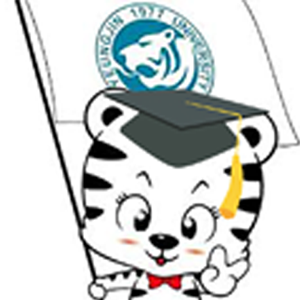
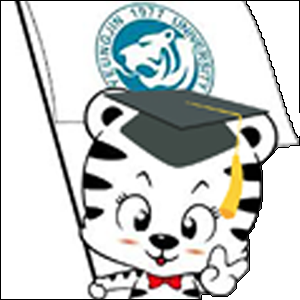
iq테스트 결과창 수정

diff --git a/iq_result/iq_result.css b/iq_result/iq_result.css
@@ -1,4 +1,10 @@
 /* 결과 화면 스타일 */
+body {
+    position: relative;
+    font-family: Arial, sans-serif;
+    background: rgba(0, 0, 0, 0.7); 
+}
+
 #result {
     text-align: center;
     font-size: 24px;
@@ -12,14 +18,35 @@
     right: 0;
     top: 0;
 }
-
+#result p{
+    width: 700px;
+    height: 140px;
+    border: 4px solid #111;
+    border-radius: 5px;
+    background-color: #fff;
+    position: absolute;
+    color: rgb(27, 64, 177);
+    font-weight: bold;
+    font-size: 40px;
+    top: 450px;
+    left: 160px;
+}
+#result span{
+    text-align: center;
+    position: absolute;
+    color: #111;
+    font-weight: bold;
+    font-size: 24px;
+    top: 545px;
+    left: 330px;
+}
 #high_iq_result_img{
     position: absolute;
     align-items: center;
     margin-top: 0;
     margin-bottom: 0;
-    top: 5%;
-    left: 40%;
+    top: 0px;
+    left: 660px;
 }
 
 #medium_iq_result_img{
@@ -27,8 +54,8 @@
     align-items: center;
     margin-top: 0;
     margin-bottom: 0;
-    top: 10%;
-    left: 42%;
+    top: 150px;
+    left: 710px;
 }
 
 #low_iq_result_img{
@@ -36,26 +63,23 @@
     align-items: center;
     margin-top: 0;
     margin-bottom: 0;
-    top: 10%;
-    left: 42%;
+    top: 50px;
+    left: 38%;
 }
 
-p{
-    position: absolute;
-    top: 950%;
-    left: 42%;
-}
 
 .modal_btn {
     /*누르면 모달 나오는 버튼*/
     position: absolute;
-    top: 1200%;
-    left: 46%;
+    top: 1460%;
+    left: 43%;
     display: block;
     margin: auto;
     padding: 10px 20px;
     background-color: royalblue;
-    border: none;
+    border: 1px solid #111;
+    font-size: 16px;
+    font-weight: bold;
     border-radius: 5px;
     color: #fff;
     cursor: pointer;

diff --git a/iq_result/medium_iq_result.html b/iq_result/medium_iq_result.html
@@ -9,13 +9,13 @@
     
 </head>
 <body>
-     <!-- 결과 화면 -->
+     <!-- 결과 화면 --> 
      <div id="medium_iq_result_img">
-        <img src="../img/유치원.png">
+        <img src="../img/유치원_1.png">
     </div>
  <div id="result">
     <p id="scoreDisplay">Your IQ Score: </p>
-
+    <span>보통의 사람은 대부분 이 점수가 나오죠.</span>
     <!--모달 팝업-->
     <div class="modal">
         <div class="modal_popup">

diff --git a/iq_result/low_iq_result.html b/iq_result/low_iq_result.html
@@ -11,11 +11,11 @@
 <body>
      <!-- 결과 화면 -->
      <div id="low_iq_result_img">
-        <img src="../img/고릴라.png">
+        <img src="../img/고릴라_1.png">
     </div>
  <div id="result">
     <p id="scoreDisplay">Your IQ Score: </p>
-
+    <span>흠... 머리쓰시는게 조금 힘드시겠군요...</span>
     <!--모달 팝업-->
     <div class="modal">
         <div class="modal_popup">

diff --git a/iq_result/high_iq_result.html b/iq_result/high_iq_result.html
@@ -11,10 +11,11 @@
 <body>
      <!-- 결과 화면 -->
      <div id="high_iq_result_img">
-        <img src="../img/백호 학사모.png">
+        <img src="../img/백호 학사모_1.png">
     </div>
  <div id="result">
     <p id="scoreDisplay">Your IQ Score: </p>
+    <span>오!! 당신은 미래의 멘사회원?!</span>
     <!--모달 팝업-->
     <div class="modal">
         <div class="modal_popup">
